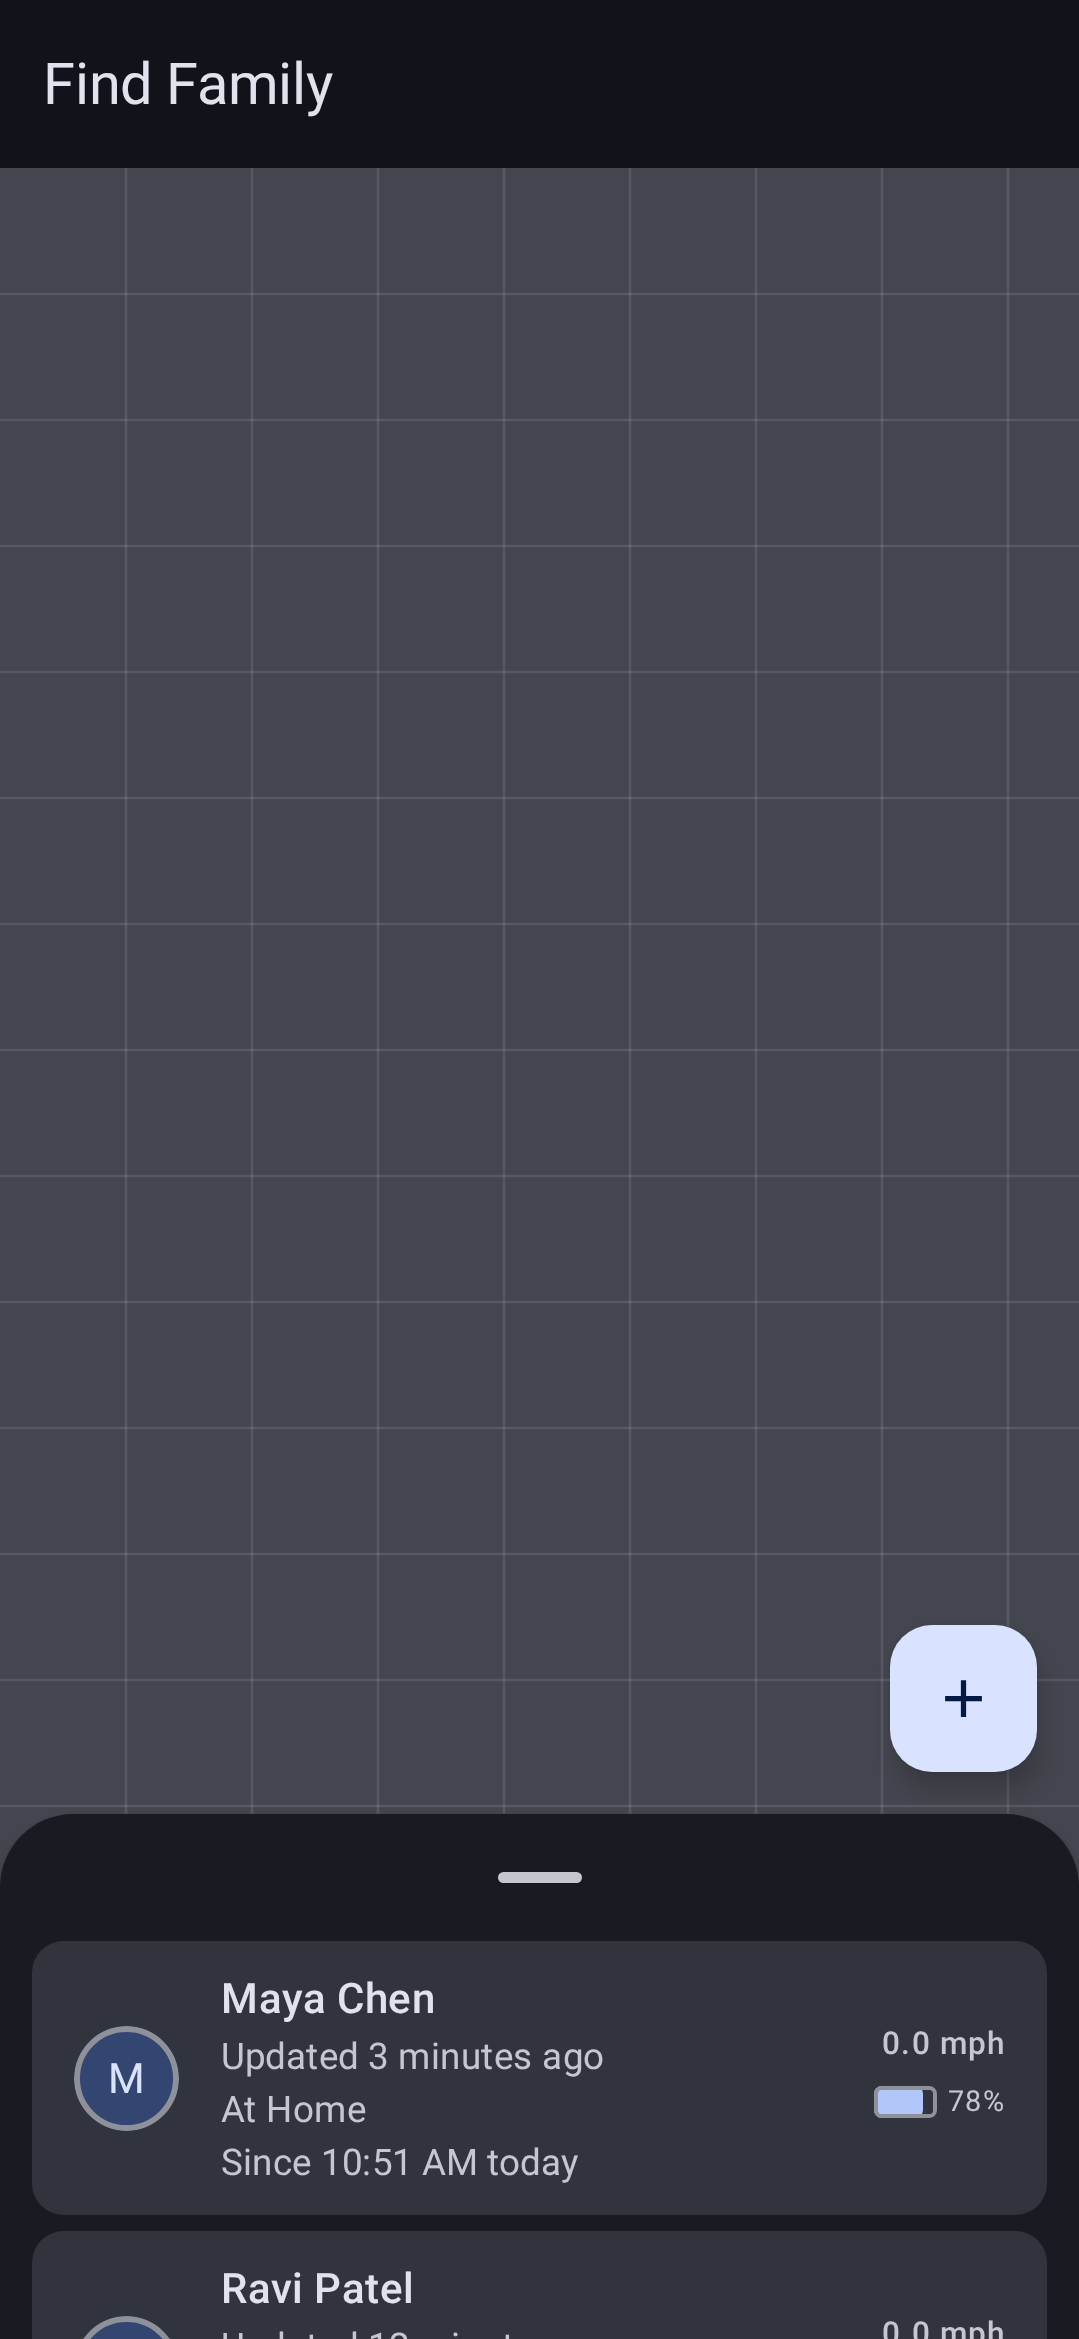
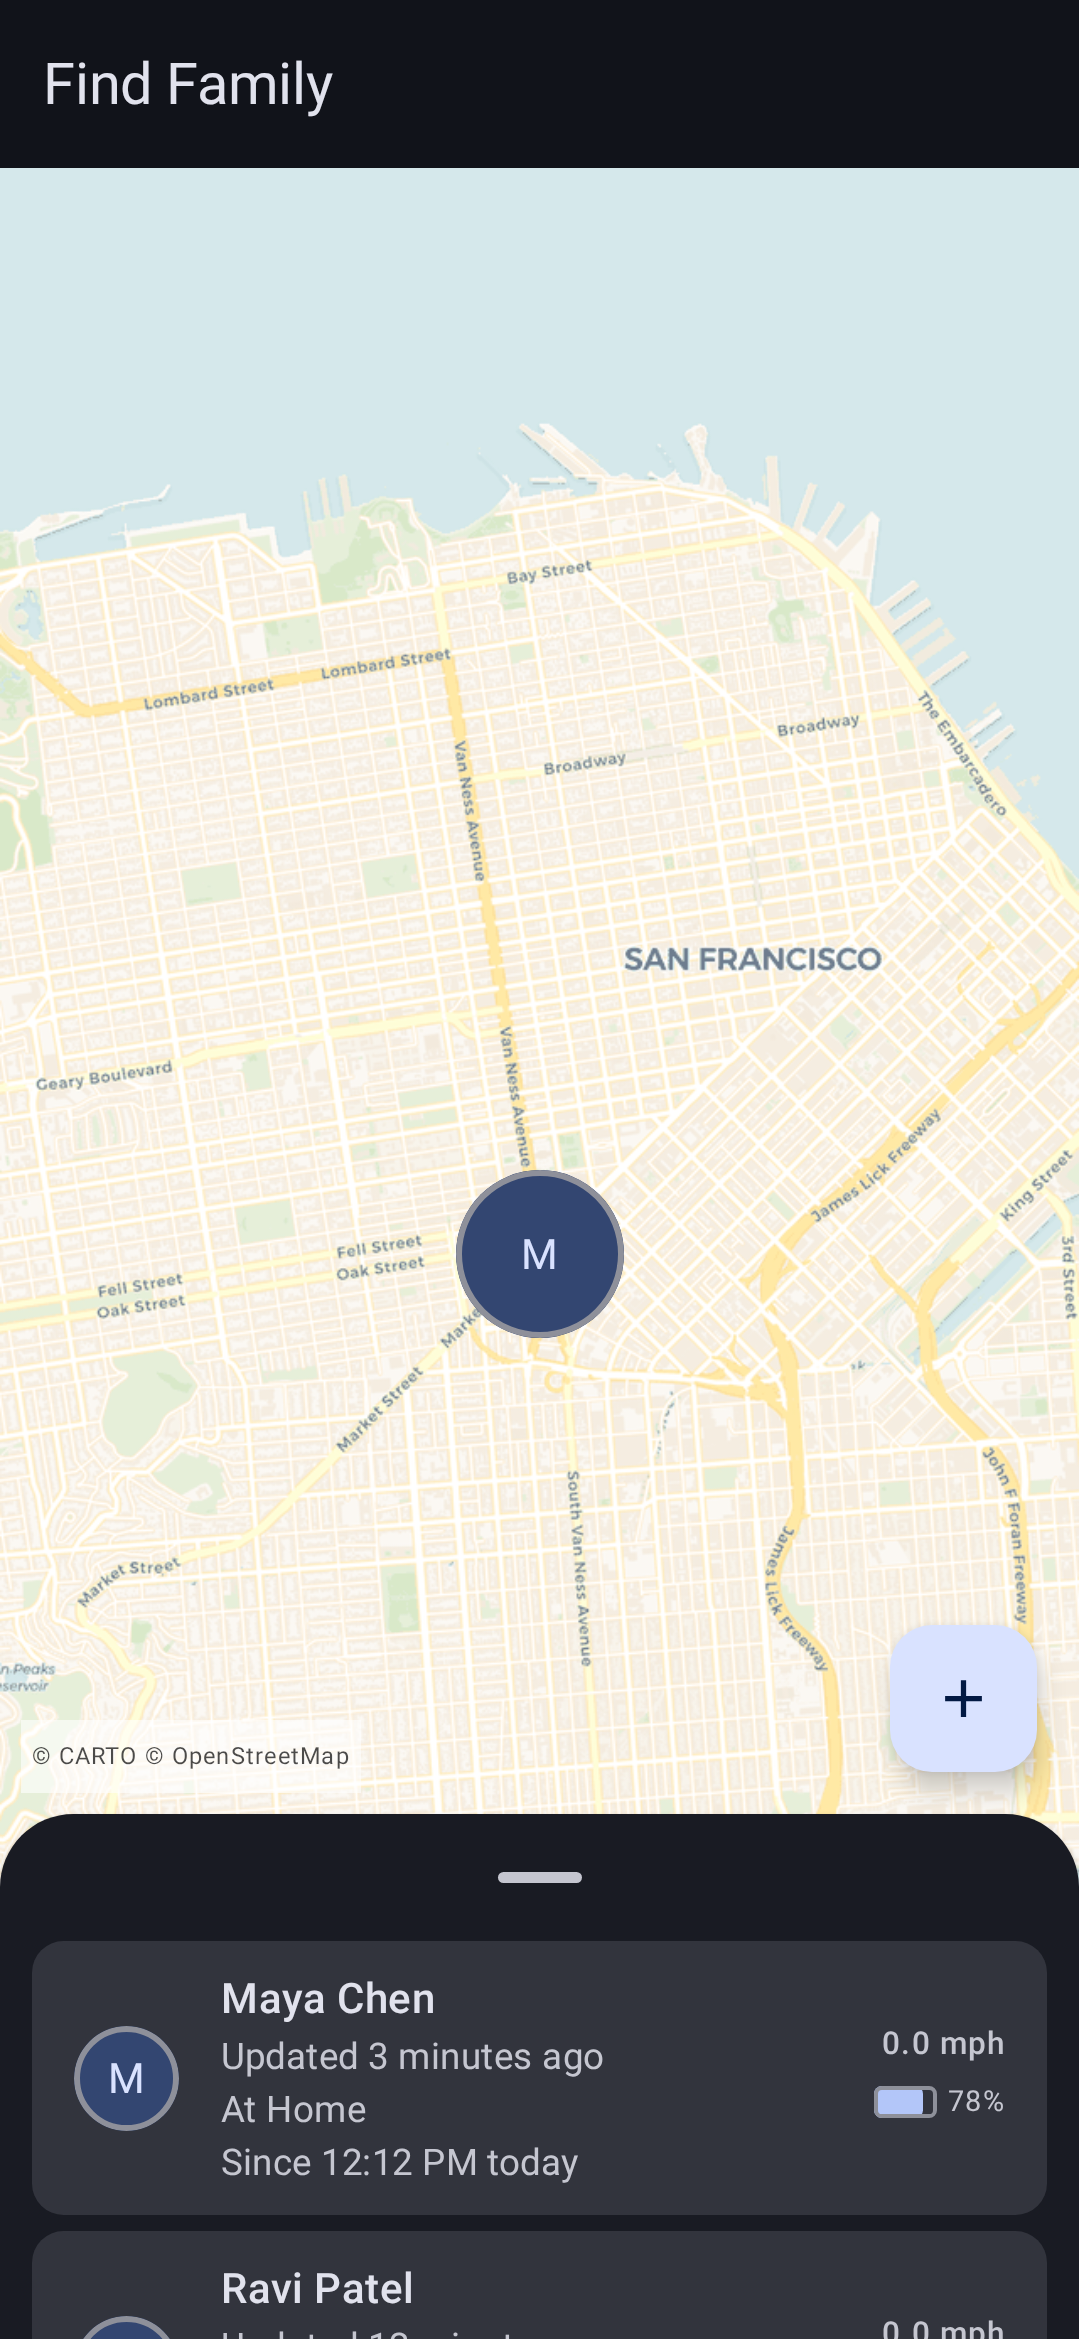
findfamily: real CARTO map tiles in metadata store screenshots

diff --git a/findfamily/src/screenshotTest/kotlin/com/vayunmathur/findfamily/ui/MetadataPreviews.kt b/findfamily/src/screenshotTest/kotlin/com/vayunmathur/findfamily/ui/MetadataPreviews.kt
@@ -1,14 +1,22 @@
 package com.vayunmathur.findfamily.ui
 
-import androidx.compose.foundation.Canvas
+import android.graphics.BitmapFactory
+import androidx.compose.foundation.Image
 import androidx.compose.foundation.background
 import androidx.compose.foundation.layout.Box
 import androidx.compose.foundation.layout.fillMaxSize
+import androidx.compose.foundation.layout.padding
+import androidx.compose.material3.Text
 import androidx.compose.runtime.Composable
+import androidx.compose.runtime.remember
+import androidx.compose.ui.Alignment
 import androidx.compose.ui.Modifier
-import androidx.compose.ui.geometry.Offset
+import androidx.compose.ui.graphics.Color
+import androidx.compose.ui.graphics.asImageBitmap
+import androidx.compose.ui.layout.ContentScale
 import androidx.compose.ui.tooling.preview.Preview
 import androidx.compose.ui.unit.dp
+import androidx.compose.ui.unit.sp
 import com.android.tools.screenshot.PreviewTest
 import com.vayunmathur.findfamily.data.Coord
 import com.vayunmathur.findfamily.data.LocationValue
@@ -25,7 +33,6 @@ import com.vayunmathur.findfamily.util.PersonUiState
 import com.vayunmathur.findfamily.util.UwbSessionManager
 import com.vayunmathur.findfamily.uwb.RangingSample
 import com.vayunmathur.library.ui.DynamicTheme
-import com.vayunmathur.library.ui.MaterialTheme
 import kotlin.time.Clock
 import kotlin.time.Duration.Companion.minutes
 
@@ -128,27 +135,44 @@ class MetadataPreviews {
     )
 
     /**
-     * Stand-in for the live [MapView] in the `map` slot: a muted, map-ish neutral fill with a
-     * faint grid so the full page reads as "map behind chrome" without any tile rendering.
+     * Stands in for the live [MapView] in the `map` slot. Layoutlib cannot fetch the network
+     * raster tiles the real [MapView] draws, so instead of a synthetic grid we bundle a real
+     * CARTO Voyager basemap mosaic (`preview_map_sf.png`, a screenshotTest-only classpath
+     * resource centered on [mayaLocation]) and overlay the sample person marker exactly like
+     * the app does. The mosaic is a JVM resource rather than an Android drawable so it never
+     * ships in the app APK. The "© CARTO © OpenStreetMap" attribution is required by the
+     * basemap terms and must stay visible. Image + static overlays only — no network or
+     * effects — so it renders under Layoutlib.
      */
     @Composable
     private fun StaticMapBackdrop() {
-        val gridColor = MaterialTheme.colorScheme.outline.copy(alpha = 0.25f)
-        Box(Modifier.fillMaxSize().background(MaterialTheme.colorScheme.surfaceVariant)) {
-            Canvas(Modifier.fillMaxSize()) {
-                val step = 48.dp.toPx()
-                val stroke = 1.dp.toPx()
-                var x = step
-                while (x < size.width) {
-                    drawLine(gridColor, Offset(x, 0f), Offset(x, size.height), stroke)
-                    x += step
-                }
-                var y = step
-                while (y < size.height) {
-                    drawLine(gridColor, Offset(0f, y), Offset(size.width, y), stroke)
-                    y += step
-                }
+        val mapImage = remember {
+            val stream = MetadataPreviews::class.java.getResourceAsStream("/preview_map_sf.png")
+                ?: error("preview_map_sf.png missing from screenshotTest resources")
+            stream.use { BitmapFactory.decodeStream(it).asImageBitmap() }
+        }
+        Box(Modifier.fillMaxSize()) {
+            Image(
+                bitmap = mapImage,
+                contentDescription = null,
+                modifier = Modifier.fillMaxSize(),
+                contentScale = ContentScale.Crop,
+            )
+            // Sample person marker over the map point the mosaic is centered on.
+            Box(Modifier.align(Alignment.Center)) {
+                UserPicture(maya, 64.dp)
             }
+            Text(
+                text = "© CARTO © OpenStreetMap",
+                color = Color.Black.copy(alpha = 0.7f),
+                fontSize = 9.sp,
+                modifier = Modifier
+                    .align(Alignment.BottomStart)
+                    // Clear the 200.dp collapsed sheet peek so the required attribution stays visible.
+                    .padding(start = 8.dp, bottom = 208.dp)
+                    .background(Color.White.copy(alpha = 0.6f))
+                    .padding(horizontal = 4.dp, vertical = 2.dp),
+            )
         }
     }
 
